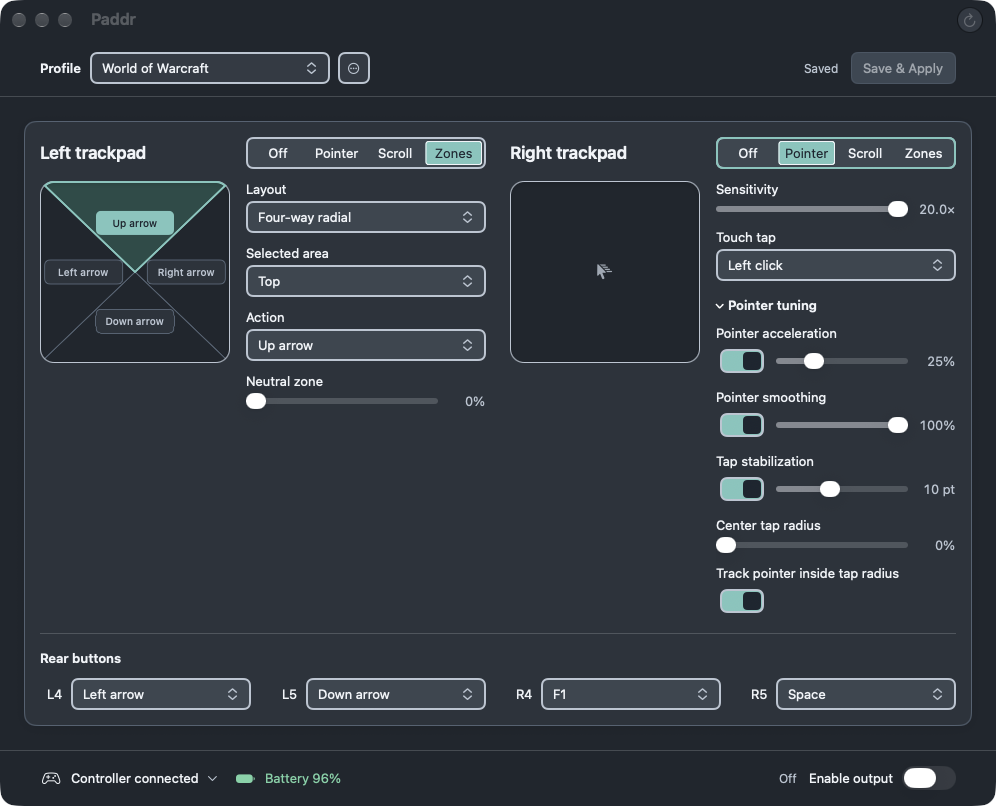
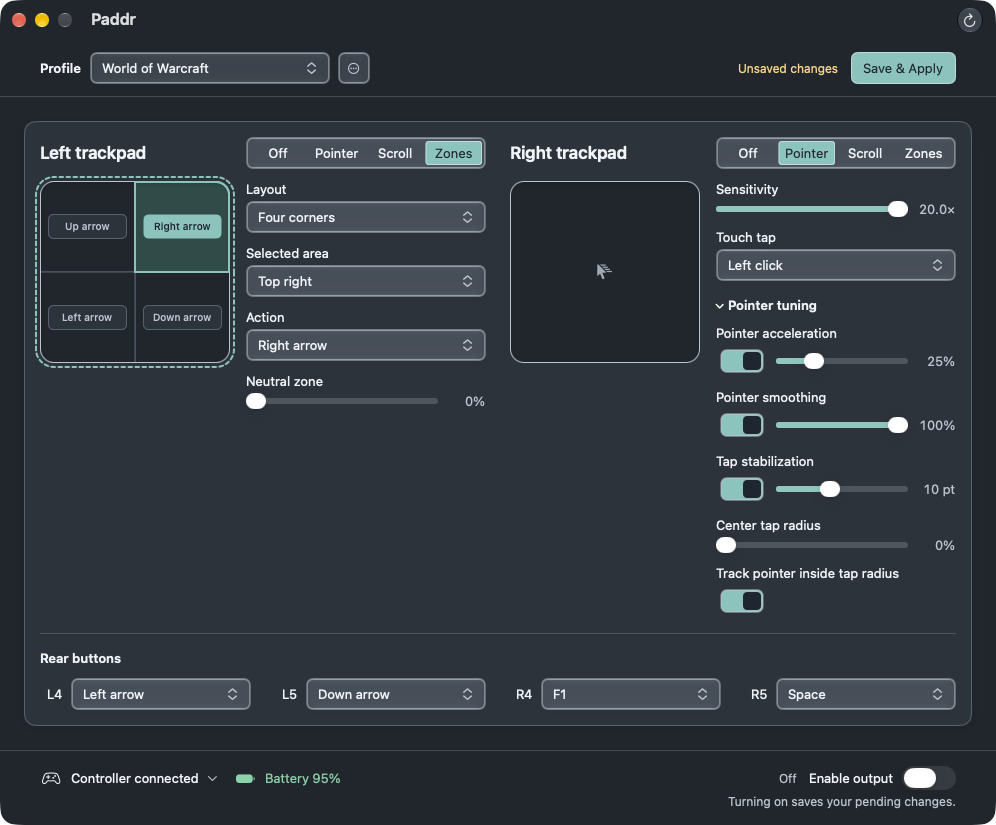
Soften control outlines in light and dark mode (#98)
* Soften bespoke control outlines in standard contrast

* Refresh product screenshots from the approved softer-outline build

diff --git a/Sources/PaddrMenu/PaddrNativeControls.swift b/Sources/PaddrMenu/PaddrNativeControls.swift
@@ -185,7 +185,7 @@ final class PaddrPopUpButton: NSPopUpButton {
                 color: isHighlighted ? PaddrStyle.controlPressed : PaddrStyle.controlHover)
         }
         PaddrControlDrawing.stroke(bounds, radius: PaddrStyle.Control.radius,
-            color: isEnabled ? increasedContrast ? PaddrStyle.textPrimary : PaddrStyle.textSecondary : PaddrStyle.boundary,
+            color: controlAppearance.controlStroke(enabled: isEnabled),
             width: PaddrStyle.Control.outlineWidth)
         if let iconName {
             drawSymbol(iconName, in: CGRect(x: bounds.midX - 7, y: bounds.midY - 7, width: 14, height: 14))
@@ -314,7 +314,7 @@ final class PaddrTuningSwitchButton: NSButton {
                 color: state == .on ? PaddrStyle.controlTint : PaddrStyle.workspace)
         }
         PaddrControlDrawing.stroke(trackRect, radius: PaddrStyle.Control.radius,
-            color: isEnabled ? increasedContrast ? PaddrStyle.textPrimary : PaddrStyle.textSecondary : PaddrStyle.boundary,
+            color: controlAppearance.controlStroke(enabled: isEnabled),
             width: PaddrStyle.Control.outlineWidth)
         if (isHovered || isHighlighted) && isEnabled {
             PaddrControlDrawing.fill(trackRect, radius: PaddrStyle.Control.radius, color: isHighlighted ? PaddrStyle.controlPressed : PaddrStyle.controlHover)
@@ -322,7 +322,7 @@ final class PaddrTuningSwitchButton: NSButton {
         PaddrControlDrawing.fill(thumbRect, radius: PaddrStyle.Control.TuningSwitch.thumbRadius,
             color: state == .on ? PaddrStyle.selectedZoneCaptionForeground : PaddrStyle.textSecondary)
         if !isEnabled {
-            PaddrControlDrawing.stroke(thumbRect, radius: PaddrStyle.Control.TuningSwitch.thumbRadius, color: PaddrStyle.boundary)
+            PaddrControlDrawing.stroke(thumbRect, radius: PaddrStyle.Control.TuningSwitch.thumbRadius, color: controlAppearance.controlStroke(enabled: false))
         }
     }
 }

diff --git a/Tests/PaddrAppSupportTests/BespokeControlInteractionTests.swift b/Tests/PaddrAppSupportTests/BespokeControlInteractionTests.swift
@@ -776,10 +776,18 @@ final class BespokeControlInteractionTests: XCTestCase {
                 host.effectiveAppearance.performAsCurrentDrawingAppearance {
                     rimColor = NSColor(PaddrStyle.textSecondary).usingColorSpace(.sRGB)
                 }
-                let expectedRim = try XCTUnwrap(rimColor)
+                let previousRim = try XCTUnwrap(rimColor)
+                let surface = try sample(bitmap, CGPoint(x: 136, y: 10))
+                let firstRimPixel = try sample(bitmap, CGPoint(x: 136, y: 0.5))
                 for y in [CGFloat(0.5), 1.5] {
-                    XCTAssertLessThan(distance(try sample(bitmap, CGPoint(x: 136, y: y)), expectedRim), 0.06,
-                        "The structural rim must cover both complete pixels/points without a fractional ghost seam")
+                    let rim = try sample(bitmap, CGPoint(x: 136, y: y))
+                    // Compare rendered strength, allowing color-managed blending
+                    // to differ from arithmetic interpolation of sRGB components.
+                    let strength = distance(rim, surface) / distance(previousRim, surface)
+                    XCTAssertGreaterThan(strength, 0.35)
+                    XCTAssertLessThan(strength, 0.65)
+                    XCTAssertLessThan(distance(rim, firstRimPixel), 0.01,
+                        "The softer rim must still cover both complete pixels/points without a fractional ghost seam")
                 }
                 let selected = try sample(bitmap, CGPoint(x: 225, y: 6))
                 let idle = try sample(bitmap, CGPoint(x: 102, y: 6))

diff --git a/Sources/PaddrMenu/PaddrAppearance.swift b/Sources/PaddrMenu/PaddrAppearance.swift
@@ -44,8 +44,20 @@ struct PaddrAppearance: Equatable {
         enabled ? PaddrStyle.controlTint : PaddrStyle.boundary
     }
 
+    /// Quiet decorative rims in the normal appearance; retain full strength
+    /// when the system requests increased contrast.
+    private var controlOutlineOpacity: Double { hasIncreasedContrast ? 1 : 0.5 }
+
+    func controlStroke(enabled: Bool) -> Color {
+        let color = enabled
+            ? hasIncreasedContrast ? PaddrStyle.textPrimary : PaddrStyle.textSecondary
+            : PaddrStyle.boundary
+        return color.opacity(controlOutlineOpacity)
+    }
+
     func accentStroke(enabled: Bool) -> Color {
-        enabled ? PaddrStyle.accentStroke : PaddrStyle.boundary
+        (enabled ? PaddrStyle.accentStroke : PaddrStyle.boundary)
+            .opacity(controlOutlineOpacity)
     }
 
     func accentForeground(enabled: Bool) -> Color {

diff --git a/Sources/PaddrMenu/PadConfigurationView.swift b/Sources/PaddrMenu/PadConfigurationView.swift
@@ -513,8 +513,7 @@ final class PaddrModeSegmentedControl: NSSegmentedControl {
             PaddrControlDrawing.fill(bounds, radius: PaddrStyle.Control.radius, color: PaddrStyle.workspace)
         }
         PaddrControlDrawing.stroke(bounds, radius: PaddrStyle.Control.radius,
-            color: isEnabled ? controlAppearance.hasIncreasedContrast ? PaddrStyle.textPrimary : PaddrStyle.textSecondary
-                : PaddrStyle.boundary, width: PaddrStyle.Control.outlineWidth)
+            color: controlAppearance.controlStroke(enabled: isEnabled), width: PaddrStyle.Control.outlineWidth)
         for index in 0..<segmentCount {
             let rect = segmentRect(index)
             let selected = isSelected(forSegment: index)

diff --git a/Sources/PaddrMenu/PaddrButtonStyle.swift b/Sources/PaddrMenu/PaddrButtonStyle.swift
@@ -40,8 +40,7 @@ struct PaddrButtonStyle: ButtonStyle {
                 .overlay {
                     PaddrControlShape()
                         .strokeBorder(role == .primary ? appearance.accentStroke(enabled: isEnabled)
-                            : isEnabled ? appearance.hasIncreasedContrast ? PaddrStyle.textPrimary : PaddrStyle.textSecondary
-                            : PaddrStyle.boundary,
+                            : appearance.controlStroke(enabled: isEnabled),
                             lineWidth: role == .primary ? appearance.strokeWidth : PaddrStyle.Control.outlineWidth)
                         .allowsHitTesting(false)
                 }

diff --git a/docs/images/README.md b/docs/images/README.md
@@ -1,35 +1,43 @@
 # Live interface captures
 
-The three product screenshots were captured on 2026-10-26 from the running,
-permission-approved arm64 app at source `da5d6d7576d4bff26ad4be66b5165816f198c5c7`,
-the final bespoke-interface candidate merged in PR #96. Host: macOS 27.2 build
-`26B118`. The captures represent the 2.0 design; the follow-up battery-refresh and
-disclosure-label fixes do not change its appearance.
+These three screenshots were refreshed on 2026-10-27 from the currently running,
+permission-approved arm64 preview at `/tmp/paddr-softer-controls/package/Paddr.app`.
+They show the softened control outlines from PR #98 on macOS 27.2 build `26B118`.
 
-These are live macOS window captures, not fixtures or mockups. Input Monitoring
-and Accessibility were granted, the puck-connected controller reported 96% battery,
-and output was switched off for capture. The maintainer's saved World of Warcraft
-profile was used without editing its mappings. Dark appearance and collapsed tuning
-were restored afterward, along with the original enabled output setting.
+The Developer ID-signed preview was built before the change was committed. Its
+embedded metadata records base `5cf489190d1d0479ffa0e603afab2dea9dd89781` and
+`PaddrSourceDirty=true`; its application changes are the softer-outline changes
+subsequently committed as `a279af11b136733a7dd9575d32ccb6c6dba5b3fd`. This is
+live preview evidence, not an exact-clean-head or notarized release capture.
+
+Input Monitoring and Accessibility were granted, a real puck-connected controller
+reported 95% battery, and output stayed off throughout. The overview captures use
+the maintainer's saved World of Warcraft profile with left Four corners Zones,
+Top right selected, and right Scroll. The visible dashed pad focus indicator retains
+its full strength while decorative control outlines are softer.
+
+For the expanded example, the right pad was temporarily changed to Pointer as an
+unsaved draft and its tuning opened. The mode was returned to Scroll afterward,
+restoring **Configuration saved** without saving or altering the stored profile.
+Dark appearance, collapsed tuning and the original off output setting were restored.
 
 | File | State | Dimensions |
 | --- | --- | --- |
-| `paddr-profile-overview.png` | Dark, left Zones / right Pointer | 996 × 598 |
+| `paddr-profile-overview.png` | Dark, saved left Zones / right Scroll | 996 × 598 |
 | `paddr-profile-overview-light.png` | Same saved setup, light | 996 × 598 |
-| `paddr-auto-sized-tuning.png` | Right Pointer tuning expanded, dark | 996 × 806 |
+| `paddr-auto-sized-tuning.png` | Dark, unsaved right Pointer with tuning expanded | 996 × 825 |
 
-The app managed its own window size. Captures used `screencapture -x -o -l` with
-the actual window ID to omit shadows and the computer-use cursor overlay. No
-controls or status values were composited or retouched. All previous product
-captures were replaced or removed; the streamlined README links to the mapping
-guide instead of retaining a redundant screenshot gallery.
+The app controlled its window size. Native `screencapture -x -o -l` window captures
+omit shadows and the computer-use cursor overlay. No controls, statuses or other
+UI elements were composited or retouched. Every product image currently linked
+from the README and mapping guide was replaced with this build.
 
-To update: use the permission-approved app, record its source revision and host,
-keep mapped output off, let automatic sizing settle, and capture the native window.
-Inspect for clipping, overlays and private data. Restore the user's profile,
-disclosures, appearance and output state. Do not revoke permissions just to
-illustrate setup. Fixture exports in `docs/ui/bespoke-preview` remain separately
-identified test evidence.
+To update: select the exact permission-approved running app, record its source
+identity and host, keep mapped output off, let automatic sizing settle, and capture
+the native window. Inspect for clipping, overlays and private data. Restore the
+user's configuration, disclosures, appearance and output state. Do not revoke
+permissions just to illustrate setup. Fixture exports in `docs/ui/bespoke-preview`
+remain separately identified test evidence.
 
 These images establish visible connection and permission state, not output latency,
 physical key/button release behavior or assistive-technology acceptance. macOS

diff --git a/docs/USING.md b/docs/USING.md
@@ -34,7 +34,7 @@ Closing the guide and configuration window leaves Paddr in the menu bar with qui
 
 Choose **Zones** on either pad, select a layout, then click an area on the map or use **Selected area** to assign it. Radial four-way, four corners, left/right, top/bottom, and 3 × 3 layouts are available. Each region can hold a keyboard key or mouse button until the touch moves or lifts. Crossing regions releases the previous action before pressing the next. Non-grid layouts offer an adjustable neutral region; 3 × 3 uses the whole pad.
 
-![Left pad configured as Zones with the right pad in Pointer mode](images/paddr-profile-overview-light.png)
+![Left pad configured as Four corners Zones with the right pad in Scroll mode](images/paddr-profile-overview-light.png)
 
 ## Pointer tuning
 

diff --git a/CHANGELOG.md b/CHANGELOG.md
@@ -2,6 +2,11 @@
 
 User-visible changes to Paddr are recorded here. Release entries describe confirmed behavior at the time of each release; later entries may supersede earlier limitations.
 
+## Unreleased
+
+- Soften button, selector, mode and tuning-switch outlines to 50% opacity in the
+  standard appearance, retaining full-strength focus and increased-contrast edges.
+
 ## 2.0.0 — 2026-10-26
 
 ### Bespoke mapping workspace
